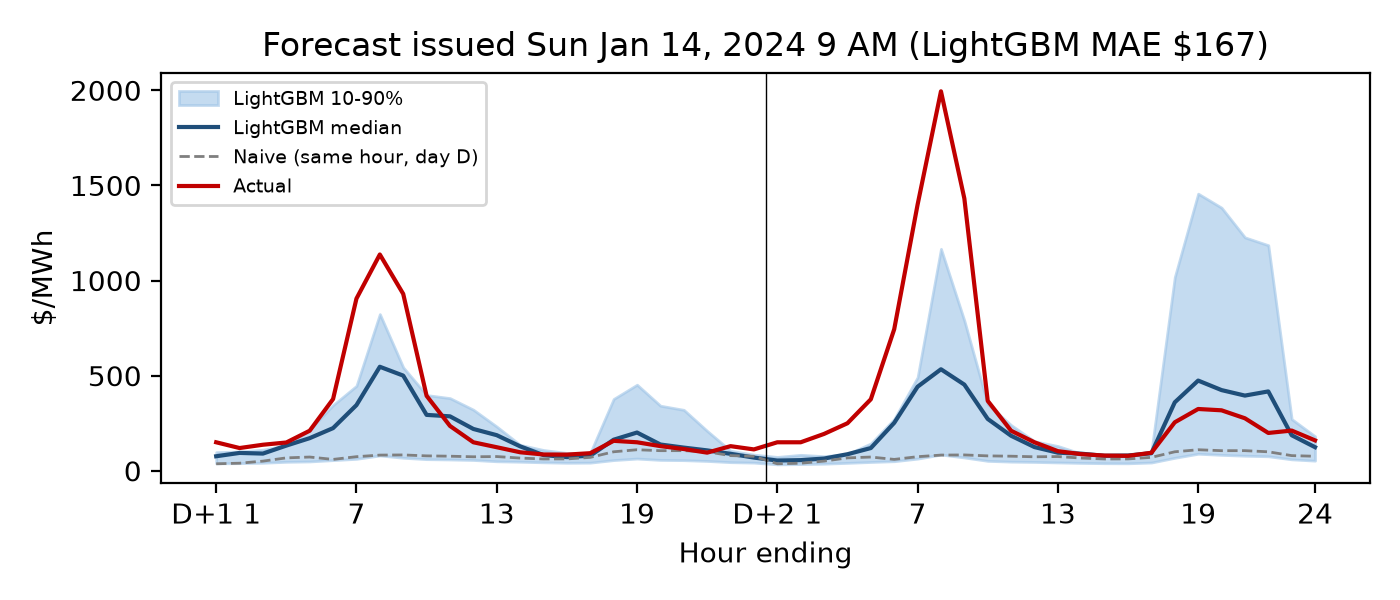
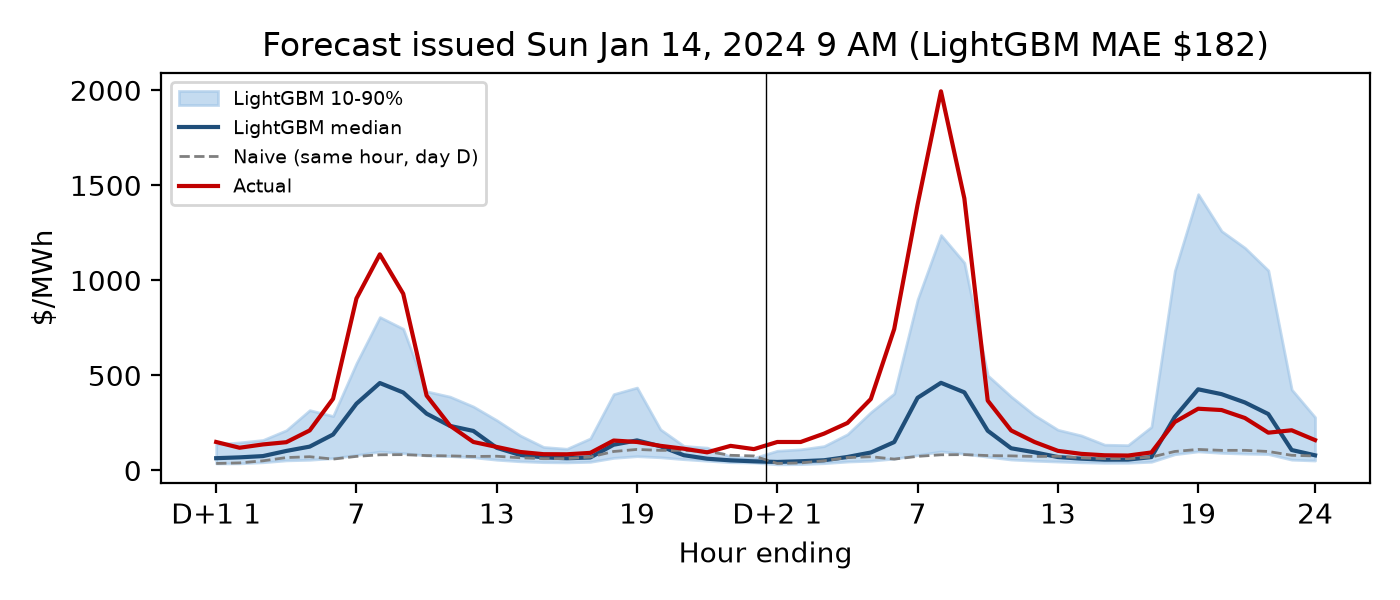
regenerate validation results with calibrated model

diff --git a/src/plots.py b/src/plots.py
@@ -3,9 +3,10 @@
 Picks, among 2024 origins, the one where LightGBM's 48-hour MAE is lowest relative
 to the naive same-hour-yesterday forecast (a success case) and the one with the
 largest LightGBM MAE overall (a failure case). Ranking by improvement over naive
-avoids picking a flat, easy day as the success example.
+avoids picking a flat, easy day as the success example. The plotted model is the
+conformally calibrated one, whose median is the same as the uncalibrated model's.
 
-Usage: python src/plots.py [--raw]   (reads the matching val_predictions file)
+Usage: python src/plots.py [config]   (reads val_predictions_<config>.parquet; default "final")
 Writes reports/figures/example_success.png and example_failure.png.
 """
 
@@ -17,10 +18,11 @@ import pandas as pd
 
 ROOT = Path(__file__).resolve().parents[1]
 FIG = ROOT / "reports" / "figures"
+MODEL = "lightgbm_cqr"
 
 
 def plot_origin(preds, origin, title, path):
-    lgbm = preds[(preds["model"] == "lightgbm") & (preds["origin"] == origin)]
+    lgbm = preds[(preds["model"] == MODEL) & (preds["origin"] == origin)]
     naive = preds[(preds["model"] == "naive_day") & (preds["origin"] == origin)]
     lgbm = lgbm.sort_values(["horizon", "hour"])
     naive = naive.sort_values(["horizon", "hour"])
@@ -42,26 +44,25 @@ def plot_origin(preds, origin, title, path):
     fig.savefig(path, dpi=200)
 
 
-def main(raw=False):
-    suffix = "_raw" if raw else ""
-    preds = pd.read_parquet(ROOT / "data" / "processed" / f"val_predictions{suffix}.parquet")
+def main(config="final"):
+    preds = pd.read_parquet(ROOT / "data" / "processed" / f"val_predictions_{config}.parquet")
     preds["err"] = (preds["price"] - preds["q50"]).abs()
     mae = preds.groupby(["origin", "model"])["err"].mean().unstack()
     # Require 48 complete hours so the plot is never missing a horizon.
-    counts = preds[preds["model"] == "lightgbm"].groupby("origin").size()
+    counts = preds[preds["model"] == MODEL].groupby("origin").size()
     mae = mae[counts.reindex(mae.index) == 48]
 
-    success = (mae["lightgbm"] - mae["naive_day"]).idxmin()
-    failure = mae["lightgbm"].idxmax()
+    success = (mae[MODEL] - mae["naive_day"]).idxmin()
+    failure = mae[MODEL].idxmax()
     for name, origin in [("success", success), ("failure", failure)]:
         row = mae.loc[origin]
         print(
-            f"{name}: origin {origin.date()}, LightGBM MAE {row['lightgbm']:.1f}, "
+            f"{name}: origin {origin.date()}, LightGBM MAE {row[MODEL]:.1f}, "
             f"naive MAE {row['naive_day']:.1f}"
         )
-        title = f"Forecast issued {origin:%a %b %d, %Y} 9 AM (LightGBM MAE ${row['lightgbm']:.0f})"
+        title = f"Forecast issued {origin:%a %b %d, %Y} 9 AM (LightGBM MAE ${row[MODEL]:.0f})"
         plot_origin(preds, origin, title, FIG / f"example_{name}.png")
 
 
 if __name__ == "__main__":
-    main(raw="--raw" in sys.argv)
+    main(sys.argv[1] if len(sys.argv) > 1 else "final")
